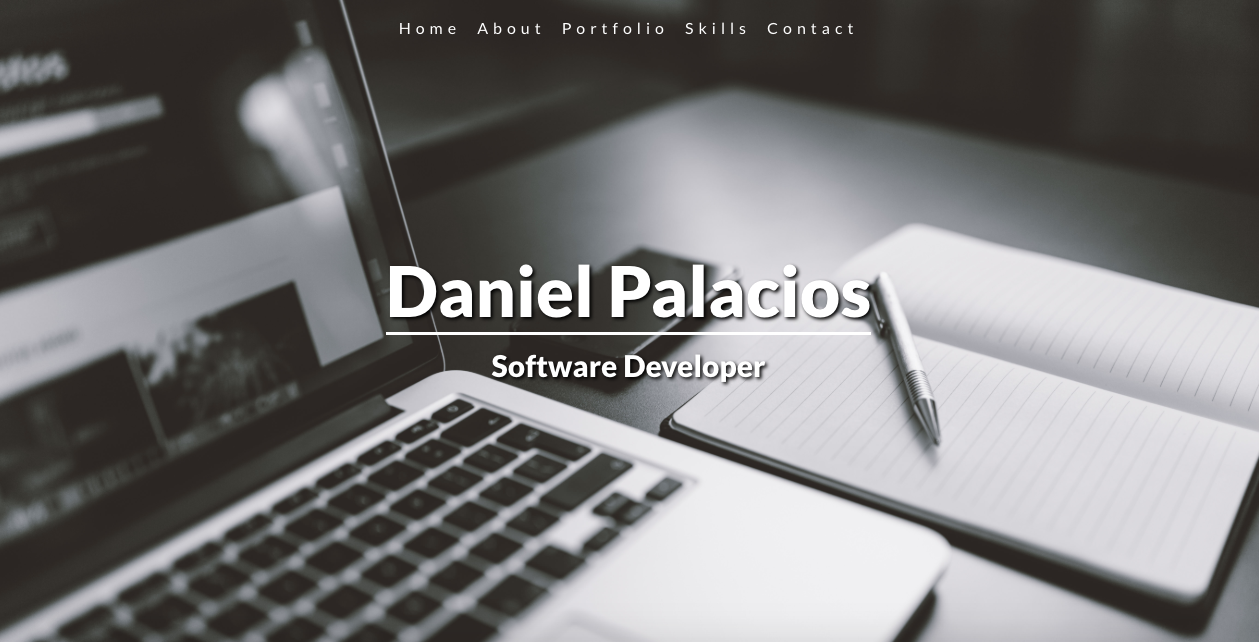
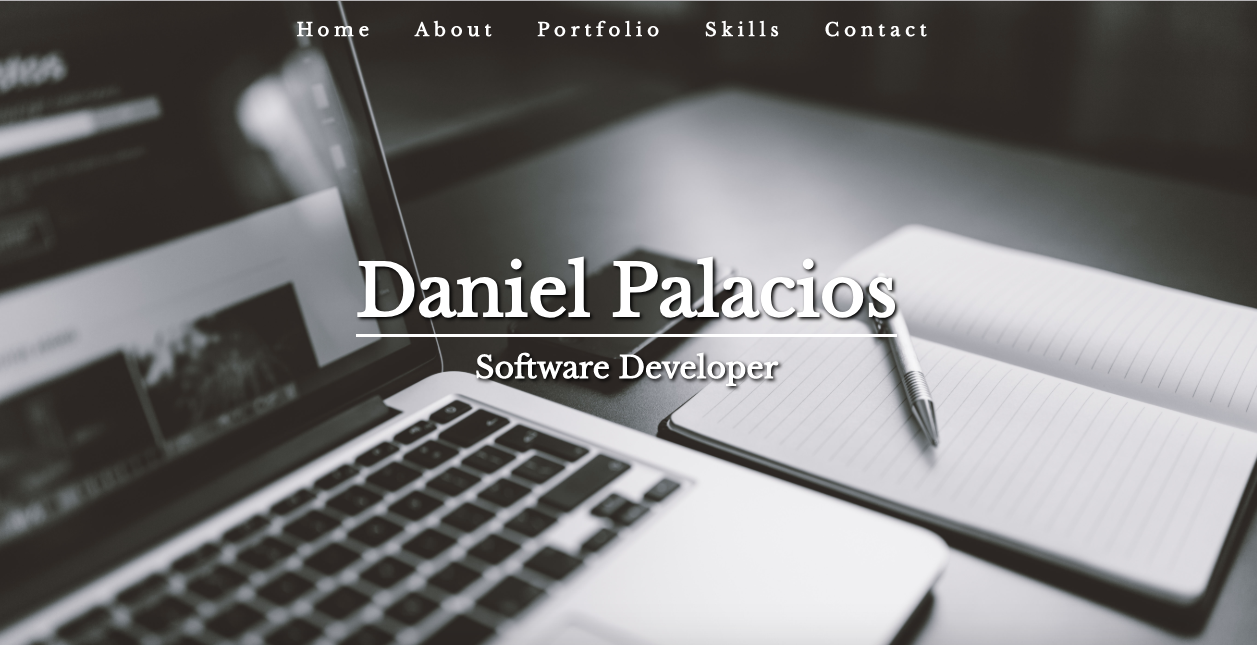
new font

diff --git a/app/assets/stylesheets/application.css b/app/assets/stylesheets/application.css
@@ -78,10 +78,21 @@ nav.navbar{
    font-weight: bold;
    font-size: 40px;
 }
+#portfolio nav .nav a{
+   font-family: 'Libre Baskerville', serif;
+   font-weight: bold;
+   color: black;
+   font-size: 18px;
+}
 #portfolio .tab-content p{
+   font-family: 'Crimson Text', serif;
    text-align: justify;
-   font-size: 20px;
-   line-height: 30px;
+   font-size: 25px;
+   line-height: 28px;
+}
+#portfolio .tab-content a{
+   font-family: 'Crimson Text', serif;
+   font-size: 22px;
 }
 #portfoliojumbotron1{
    background-image: url("/assets/portfolio1.jpg");
@@ -130,9 +141,9 @@ nav.navbar{
    font-size: 40px;
 }
 #contact .container p{
-   font-family: 'Lato', sans-serfif;
-   font-weight: 400;
-   font-size: 20px;
+   font-family: 'Crimson Text', serif;
+   font-size: 25px;
+   line-height: 28px;
 }
 #contact{
    font-family: 'Lato', sans-serfif;
@@ -166,6 +177,9 @@ footer {
   background-color: #2f363b;
   padding: 25px;
   color: white;
+  font-family: 'Crimson Text', serif;
+  font-size: 18px;
+  line-height: 28px;
 }
 /* footer{
    background-color: #222222;
